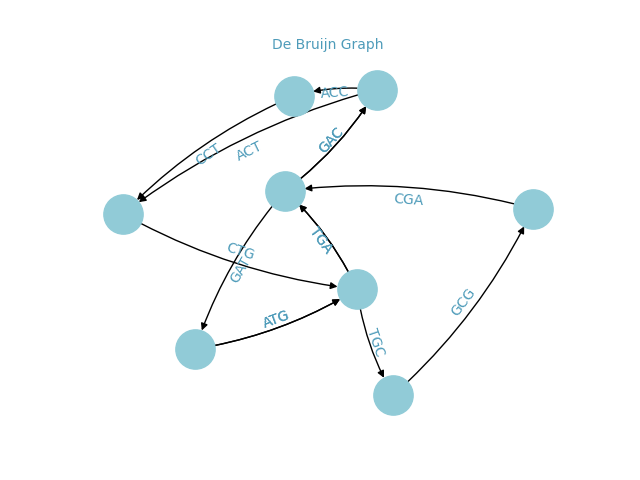
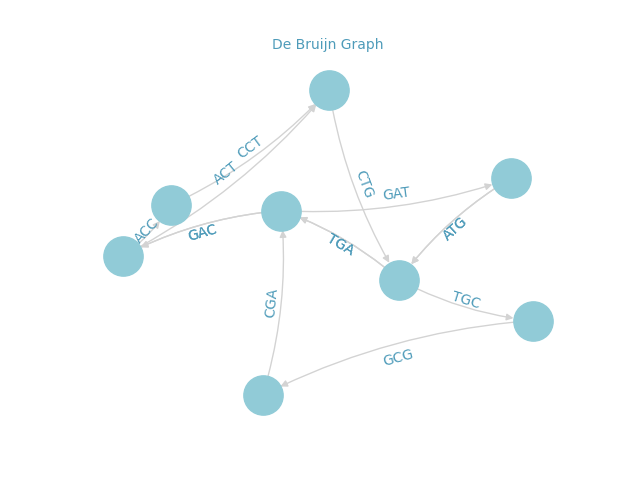
-- SA test 1

diff --git a/src/SA.py b/src/SA.py
@@ -1,0 +1,99 @@
+'''
+simulated annealing on graph to solve hamiltonian path problem
+'''
+
+import networkx as nx
+import numpy as np
+import random
+import matplotlib.pyplot as plt
+
+from utils import *
+
+class SA:
+    '''
+    -- Simulated Annealing class --
+    -------------------------------
+    
+    Simulated Annealing algorithm to solve the Hamiltonian Path problem on a graph
+    
+    * graph: a networkx.DiGraph instance
+    * T: initial temperature
+    * alpha: cooling rate
+    * n_iter: number of iterations
+    * verbose: print the progress of the algorithm
+    '''
+    
+    def __init__(self, graph, T=1, alpha=0.99, n_iter=1000):
+        self.graph = graph
+        self.T = T
+        self.alpha = alpha
+        self.n_iter = n_iter
+        # self.verbose = verbose
+        
+    def __acceptance_probability(self, old_cost, new_cost, T):
+        '''
+        formula: e^((old_cost - new_cost) / T)
+        probability of accepting a new path (should be better than the old one <=> lower cost)
+        if cost difference is positive, 
+        '''
+        diff = old_cost - new_cost
+        return np.exp((diff) / T)
+        # -- note while debugging: 
+        #      1. we will only consider cases where diff is positive in the algo
+        #      2. the greater the difference (more positive), the higher 
+    
+    def __cost(self, path):
+        '''
+        cost function: sum of the weights of the edges in the path 
+        will also penalize going thoug a node several times
+        '''
+        total_cost = 0
+        for i in range(len(path) - 1):
+            edge_weight = self.graph[path[i]][path[i+1]]['weight']
+            total_cost += edge_weight
+        
+        visited = set()
+        penalty = 0
+        penalty_weight = max(total_cost, 1) * 10 
+
+        for node in path:
+            if node in visited:
+                penalty += penalty_weight 
+            visited.add(node)
+
+        return total_cost + penalty 
+
+    def __anneal(self):
+        '''
+        -- simulated annealing --
+        --------------------------
+        
+        main simulated annealing algorithm
+        '''
+        # -- random initialization
+        path = list(self.graph.nodes)
+        random.shuffle(path)
+        old_cost = self.__cost(path)
+        best_path = path.copy()
+        best_cost = old_cost
+        T = self.T
+        
+        for i in range(self.n_iter):
+            new_path = path.copy()
+            i, j = random.sample(range(len(path)), 2)
+            new_path[i], new_path[j] = new_path[j], new_path[i]
+            new_cost = self.__cost(new_path)
+            
+            if new_cost < old_cost or random.random() < self.__acceptance_probability(old_cost, new_cost, T): 
+                path = new_path
+                old_cost = new_cost
+                
+            if new_cost < best_cost:
+                best_path = path.copy()
+                best_cost = new_cost
+                
+            T=T*self.alpha
+            
+            print(f'iteration {i} - cost: {best_cost} - temperature: {T}')
+        
+        return best_path, best_cost

diff --git a/src/utils.py b/src/utils.py
@@ -1,5 +1,8 @@
-'''Utility functions for graph construction'''
+'''Utility functions for graph construction and model eval'''
 
+from Bio import pairwise2
+import pandas as pd
+from IPython.display import display
 
 def suffix(kmer):
     return kmer[1:]
@@ -60,3 +63,29 @@ def kmerize(kmers):
 def split_into_kmers(dna_string, k):
     kmers = [dna_string[i:i+k] for i in range(len(dna_string) - k + 1)]
     return kmers
+
+def evaluate_modeled_sequence(real_seq, graph_modeled_seq):
+    '''
+    evaluates how good the modeled seq is compared to the real seq (testing), using needleman-wunsch for alignment
+    display a df of parameters used in accuracy computation
+    param: 
+        real_seq: str, true sequence
+        graph_modeled_seq: str, predicted sequence
+    return:
+        accuracy: float, accuracy of the prediction which is defined based on length of the real sequence, gaps and mismatches
+    '''
+    len_real_seq = len(real_seq)
+    len_graph_seq = len(graph_modeled_seq)
+
+    aln = pairwise2.align.globalxx(real_seq, graph_modeled_seq, one_alignment_only=True)[0]
+    aligned_real_seq, aligned_graph_seq, score, begin, end = aln
+
+    gaps = aligned_real_seq.count('-') + aligned_graph_seq.count('-')
+    mismatches = sum(1 for i in range(len(aligned_real_seq)) if aligned_real_seq[i] != aligned_graph_seq[i])
+    accuracy = (len_real_seq - gaps - mismatches) / len_real_seq
+
+    df=pd.DataFrame({'real_seq':[len_real_seq],'graph_seq':[len_graph_seq],'gaps':[gaps],'mismatches':[mismatches],'accuracy':[accuracy]})
+    display(df)
+
+
+    return accuracy

diff --git a/src/DBG.py b/src/DBG.py
@@ -67,7 +67,7 @@ class DBGraph(nx.MultiDiGraph):
         fig.patch.set_alpha(0)  
         ax.set_facecolor("none")  
         labels = nx.get_edge_attributes(self, 'label')
-        nx.draw(self, pos, with_labels=False, node_size=800, node_color="#91CBD7", connectionstyle='arc3, rad = 0.1')
+        nx.draw(self, pos, with_labels=False, node_size=800, node_color="#91CBD7", connectionstyle='arc3, rad = 0.1', edge_color='lightgrey')
         nx.draw_networkx_edge_labels(self, pos, edge_labels=labels, font_color='#4E9BB9', font_size=10, bbox=dict(facecolor='none', edgecolor='none'))
         plt.show()
 
